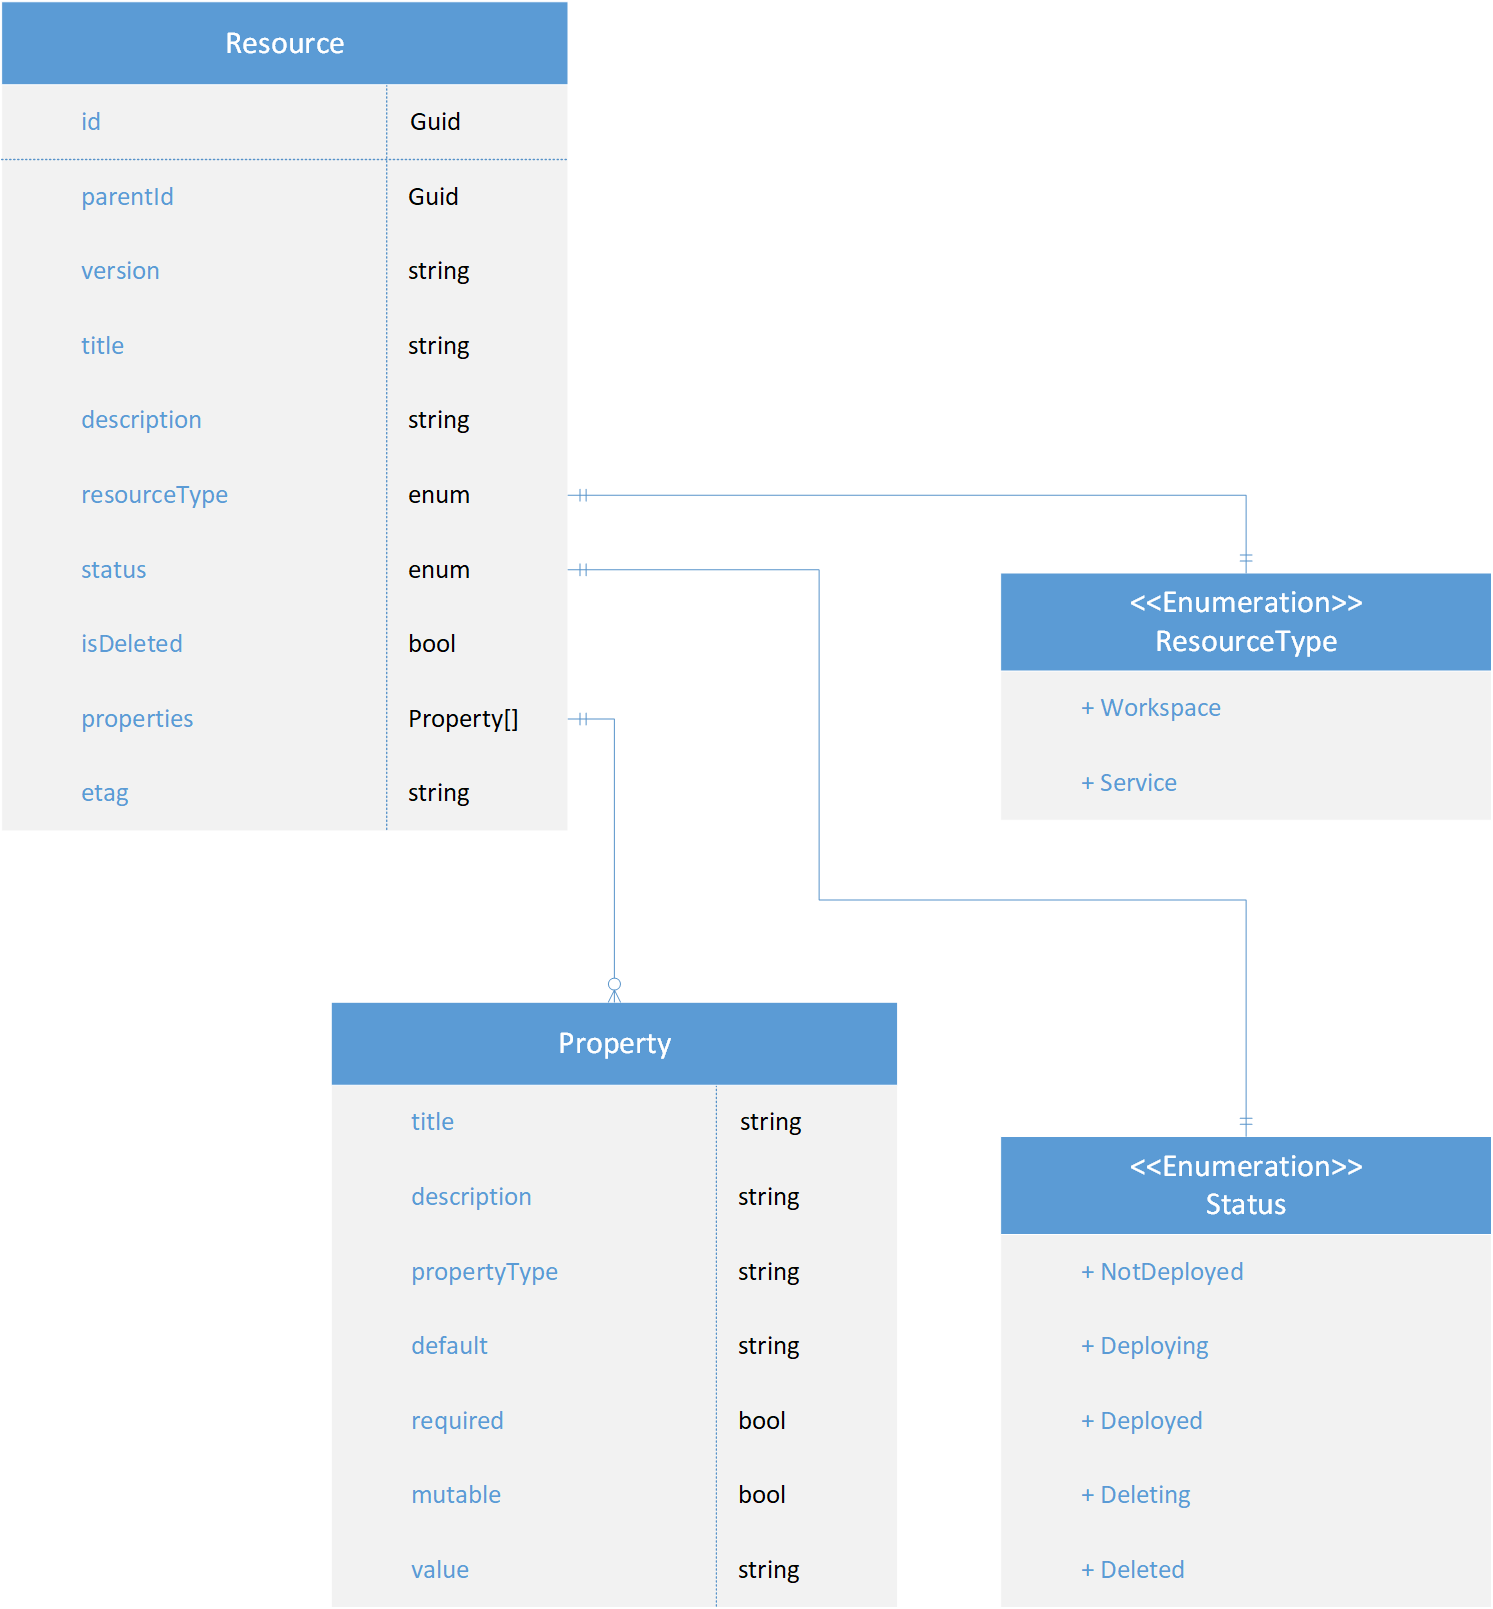
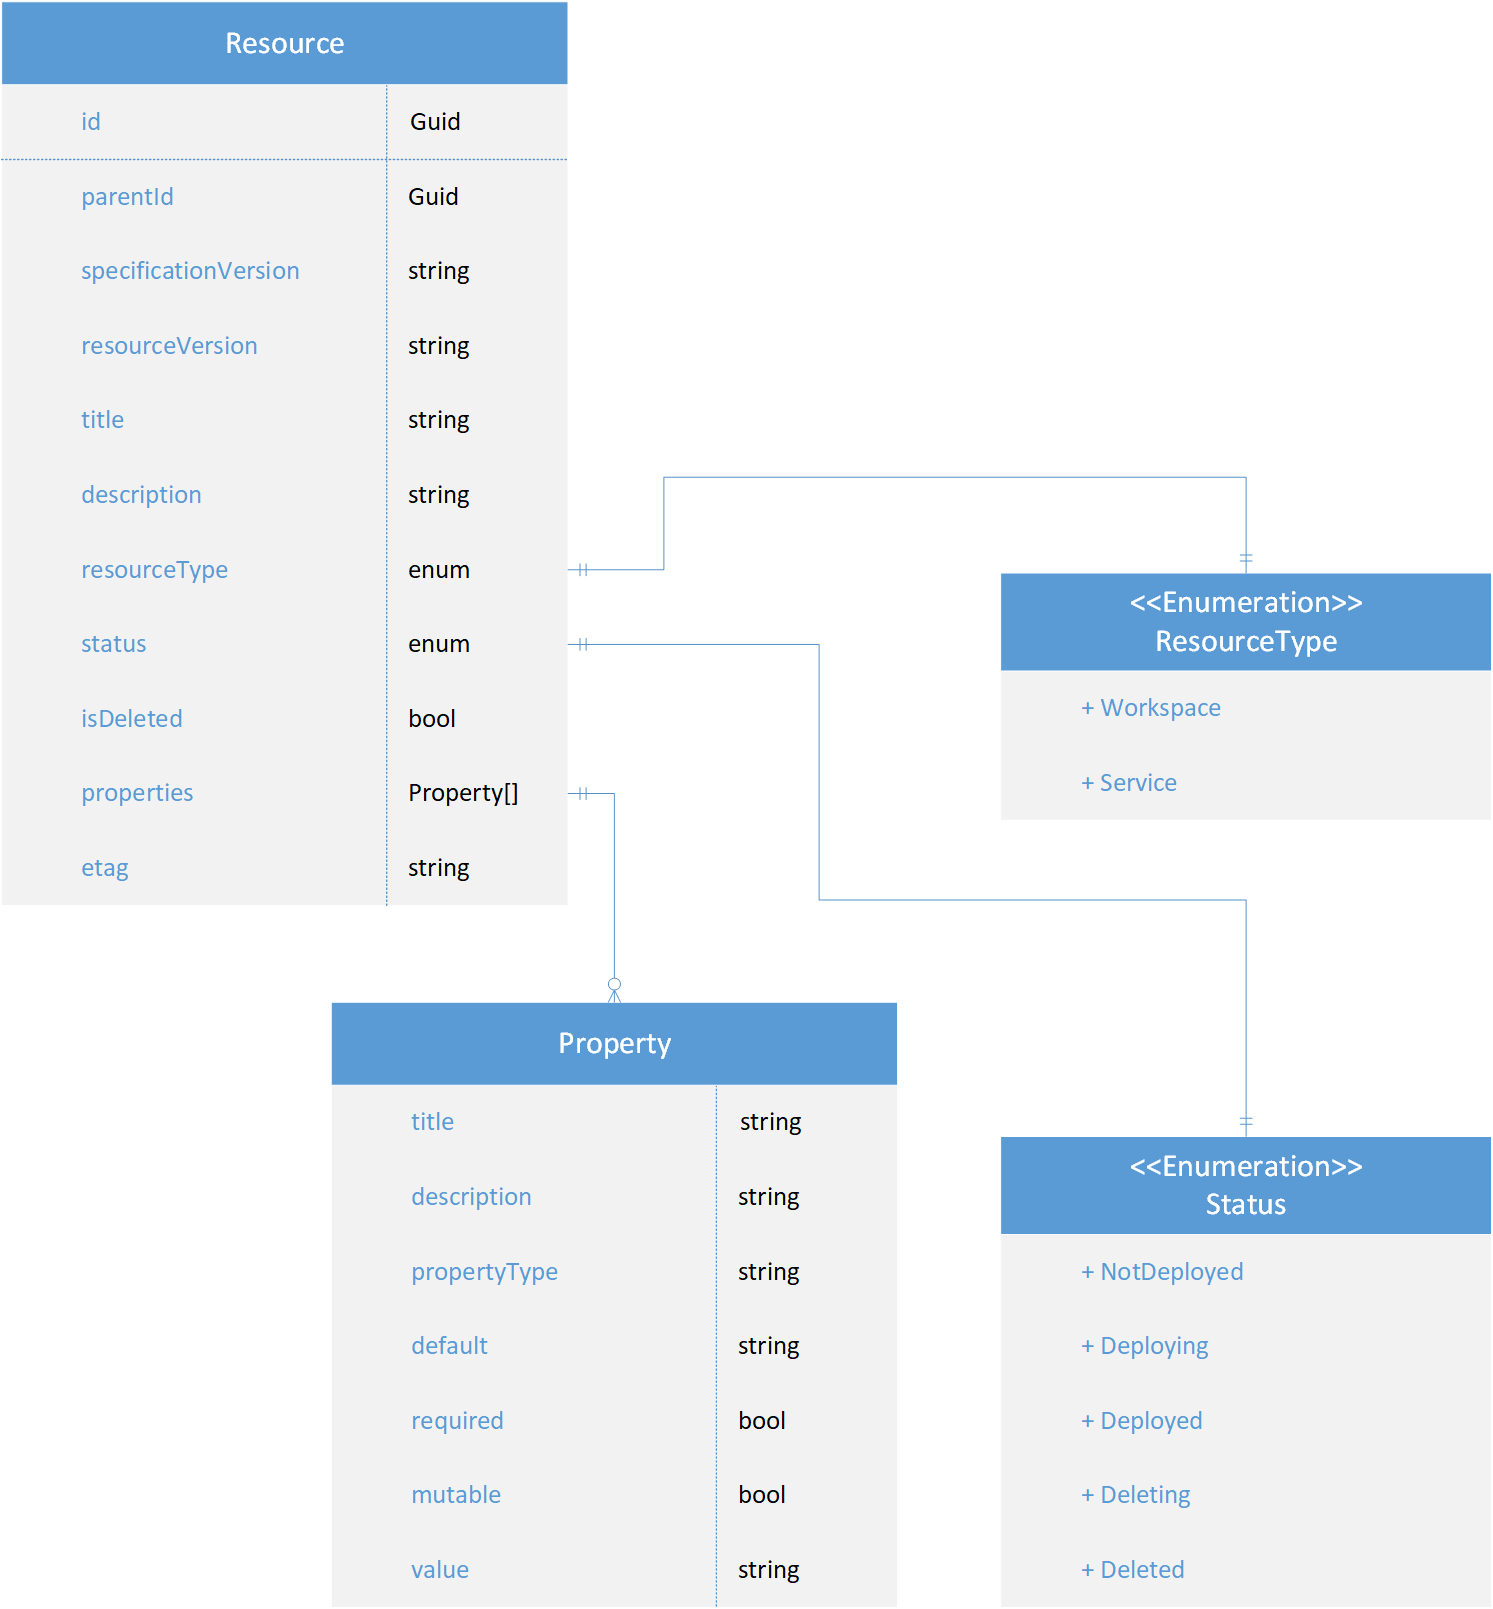
Add resource specification version field

diff --git a/docs/logical-data-model.md b/docs/logical-data-model.md
@@ -8,7 +8,8 @@
 | --- | ----------------- |
 | `id` | A unique resource id. |
 | `parentId` | The parent resource id. |
-| `version` | Resource version. |
+| `specificationVersion` | Resource specification version. |
+| `resourceVersion` | Resource version. |
 | `title` | The name (title) of the resource. Rendered in the UI. |
 | `description` | The description of the resource. Rendered in the UI. |
 | `resourceType` | Resource type. Workspace or Service. |
